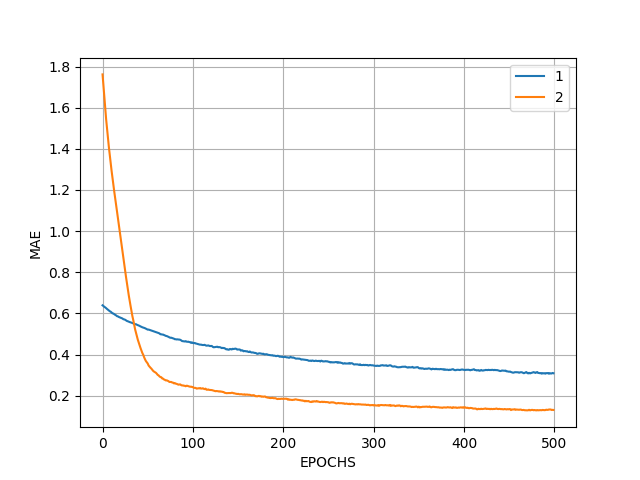
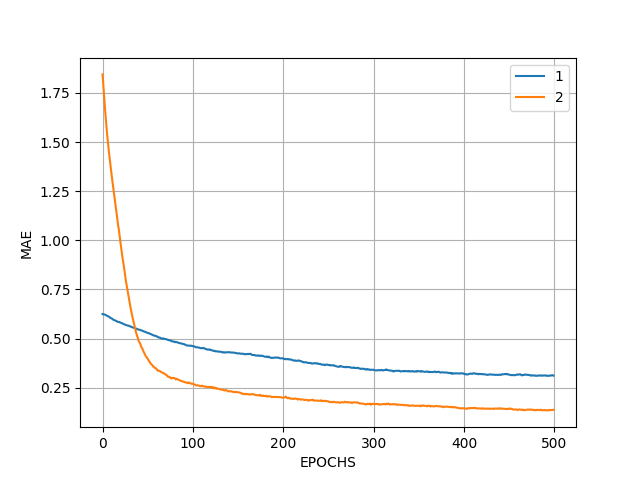
cluster/regression models tested.

diff --git a/dnn_analysis.py b/dnn_analysis.py
@@ -23,107 +23,13 @@ def getDataset(filePath, **kwargs):
 (train, train_labels), (test, test_labels) = tf.keras.datasets.boston_housing.load_data()
 train_std, mean_train, std_train = scalar(train)
 train_labels_std, mean_labels, std_labels = scalar(train_labels)
-#test, test_labels = scalar(test), scalar(test_labels)
-
-#KMEANS
-range_n_clusters = [2, 3, 4, 5, 6]
-silhouette_avg_ls = []
-for n_clusters in range_n_clusters:
-    # Create a subplot with 1 row and 2 columns
-    #fig, (ax1, ax2) = plt.subplots(1, 2)
-    #fig.set_size_inches(18, 7)
-
-    # The 1st subplot is the silhouette plot
-    # The silhouette coefficient can range from -1, 1 but in this example all
-    # lie within [-0.1, 1]
-    #ax1.set_xlim([-0.1, 1])
-    # The (n_clusters+1)*10 is for inserting blank space between silhouette
-    # plots of individual clusters, to demarcate them clearly.
-    #ax1.set_ylim([0, len(train_std) + (n_clusters + 1) * 10])
-
-    # Initialize the clusterer with n_clusters value and a random generator
-    # seed of 10 for reproducibility.
-    clusterer = KMeans(n_clusters=n_clusters, random_state=10)
-    cluster_labels = clusterer.fit_predict(train_std)
-
-    # The silhouette_score gives the average value for all the samples.
-    # This gives a perspective into the density and separation of the formed
-    # clusters
-    silhouette_avg = silhouette_score(train_std, cluster_labels)
-    silhouette_avg_ls.append(silhouette_avg)
-    print("For n_clusters =", n_clusters,
-          "The average silhouette_score is :", silhouette_avg)
-
-    # Compute the silhouette scores for each sample
-    sample_silhouette_values = silhouette_samples(train_std, cluster_labels)
-
-    y_lower = 10
-
-    """
-    for i in range(n_clusters):
-        # Aggregate the silhouette scores for samples belonging to
-        # cluster i, and sort them
-        ith_cluster_silhouette_values = \
-            sample_silhouette_values[cluster_labels == i]
-
-        ith_cluster_silhouette_values.sort()
-
-        size_cluster_i = ith_cluster_silhouette_values.shape[0]
-        y_upper = y_lower + size_cluster_i
-
-        color = cm.nipy_spectral(float(i) / n_clusters)
-        ax1.fill_betweenx(np.arange(y_lower, y_upper),
-                          0, ith_cluster_silhouette_values,
-                          facecolor=color, edgecolor=color, alpha=0.7)
-
-        # Label the silhouette plots with their cluster numbers at the middle
-        ax1.text(-0.05, y_lower + 0.5 * size_cluster_i, str(i))
-
-        # Compute the new y_lower for next plot
-        y_lower = y_upper + 10  # 10 for the 0 samples
-
-    ax1.set_title("The silhouette plot for the various clusters.")
-    ax1.set_xlabel("The silhouette coefficient values")
-    ax1.set_ylabel("Cluster label")
-
-    # The vertical line for average silhouette score of all the values
-    ax1.axvline(x=silhouette_avg, color="red", linestyle="--")
-
-    ax1.set_yticks([])  # Clear the yaxis labels / ticks
-    ax1.set_xticks([-0.1, 0, 0.2, 0.4, 0.6, 0.8, 1])
-
-    # 2nd Plot showing the actual clusters formed
-    colors = cm.nipy_spectral(cluster_labels.astype(float) / n_clusters)
-    ax2.scatter(train_std[:, 0], train_std[:, 1], marker='.', s=30, lw=0, alpha=0.7,
-                c=colors, edgecolor='k')
-
-    # Labeling the clusters
-    centers = clusterer.cluster_centers_
-    # Draw white circles at cluster centers
-    ax2.scatter(centers[:, 0], centers[:, 1], marker='o',
-                c="white", alpha=1, s=200, edgecolor='k')
-
-    for i, c in enumerate(centers):
-        ax2.scatter(c[0], c[1], marker='$%d$' % i, alpha=1,
-                    s=50, edgecolor='k')
-
-    ax2.set_title("The visualization of the clustered data.")
-    ax2.set_xlabel("Feature space for the 1st feature")
-    ax2.set_ylabel("Feature space for the 2nd feature")
-
-    plt.suptitle(("Silhouette analysis for KMeans clustering on sample data "
-                  "with n_clusters = %d" % n_clusters),
-                 fontsize=14, fontweight='bold')
-
-#plt.savefig('plots/silhouette.png')
-#plt.close(fig)
-"""
+test_std, mean_test, std_test = scalar(test)
+test_labels_std, mean_labels_test, std_labels_test = scalar(test_labels)
 
 
-bestK = silhouette_avg_ls.index(np.max(silhouette_avg_ls))
 
-clustering = KMeans(n_clusters=bestK+2, random_state=10)
-clusters_labels = clustering.fit_predict(train_std)
+
+
 
 
 #Fully connected Neural Network
@@ -132,7 +38,7 @@ num_epochs = 500
 all_mae_history_1 = []
 all_mae_history_2 = []
 model_1 = dnnModel.getModel(units=64, inputShape=train.shape[1])
-model_2 = dnnModel.getModel(units=64, inputShape=train.shape[1])
+model_2 = dnnModel.getModel(units=124, inputShape=train.shape[1])
 history_1 = model_1.fit(train_std, train_labels_std,
                         epochs=num_epochs,
                         batch_size=24,
@@ -175,12 +81,17 @@ y_1 = unscalar(model_1.predict(train_std), mean_labels, std_labels)
 y_2 = unscalar(model_2.predict(train_std), np.mean(clusters_labels), np.std(clusters_labels))
 y_2_e = unscalar(model_2.predict(train_std), mean_labels, std_labels)
 
+y_1_t = unscalar(model_1.predict(test_std), mean_labels_test, std_labels_test)
+y_2_t = unscalar(model_2.predict(test_std), np.mean(clusters_labels), np.std(clusters_labels))
+
 y_1_smooth = smooth_curve(y_1)
 y_2_smooth = smooth_curve(y_2)
 y_2_e_smooth = smooth_curve(y_2_e)
 plt.plot(y_1_smooth, label='1')
 plt.plot(y_2_smooth, label='2')
 plt.plot(y_2_e_smooth, label='3')
+plt.plot(y_1_t, label='1t')
+plt.plot(y_2_t, label='2t')
 plt.grid()
 plt.legend()
 plt.savefig('plots/modelsError.png')

diff --git a/clustering_analysis.py b/clustering_analysis.py
@@ -1,0 +1,147 @@
+from sklearn.cluster import KMeans, DBSCAN
+from sklearn.mixture import GaussianMixture
+from sklearn.metrics import silhouette_samples, silhouette_score
+from sklearn.preprocessing import StandardScaler
+from sklearn.datasets import load_boston
+
+import matplotlib.pyplot as plt
+import matplotlib.cm as cm
+
+import numpy as np
+import pandas as pd
+
+
+# ==== Preprocessing ====
+X = pd.read_csv('txsData/txs_small.csv', header=0, usecols=['n_in', 'n_out', 'amount_in', 'amount_out',
+                                                             'change', 'SA', 'diffN'])
+
+X = X.to_numpy()
+X = StandardScaler().fit_transform(X)
+# ===== K-MEANS =====
+# ==== Silhouette analysis ====
+range_n_clusters = [2, 3, 4, 5, 6]
+silhouette_avg_ls = []
+for n_clusters in range_n_clusters:
+    # Create a subplot with 1 row and 2 columns
+    fig, (ax1, ax2) = plt.subplots(1, 2)
+    fig.set_size_inches(18, 7)
+
+    # The 1st subplot is the silhouette plot
+    # The silhouette coefficient can range from -1, 1, but in this example it is in a smaller range
+    ax1.set_xlim([-0.1, 1])
+    # The (n_clusters+1)*10 is for inserting blank space between silhouette
+    # plots of individual clusters, to demarcate them clearly.
+    ax1.set_ylim([0, len(X) + (n_clusters + 1) * 10])
+
+    # Initialize the clusterer with n_clusters value and a random generator
+    # seed of 10 for reproducibility.
+    clusterer = KMeans(n_clusters=n_clusters, random_state=10)
+    cluster_labels = clusterer.fit_predict(X)
+
+    # The silhouette_score gives the average value for all the samples.
+    # This gives a perspective into the density and separation of the formed
+    # clusters
+    silhouette_avg = silhouette_score(X, cluster_labels)
+    silhouette_avg_ls.append(silhouette_avg)
+    print("For n_clusters =", n_clusters,
+          "The average silhouette_score is :", silhouette_avg)
+
+    # Compute the silhouette scores for each sample
+    sample_silhouette_values = silhouette_samples(X, cluster_labels)
+
+    y_lower = 10
+
+
+    for i in range(n_clusters):
+        # Aggregate the silhouette scores for samples belonging to
+        # cluster i, and sort them
+        ith_cluster_silhouette_values = \
+            sample_silhouette_values[cluster_labels == i]
+
+        ith_cluster_silhouette_values.sort()
+
+        size_cluster_i = ith_cluster_silhouette_values.shape[0]
+        y_upper = y_lower + size_cluster_i
+
+        color = cm.nipy_spectral(float(i) / n_clusters)
+        ax1.fill_betweenx(np.arange(y_lower, y_upper),
+                          0, ith_cluster_silhouette_values,
+                          facecolor=color, edgecolor=color, alpha=0.7)
+
+        # Label the silhouette plots with their cluster numbers at the middle
+        ax1.text(-0.1, y_lower + 0.5 * size_cluster_i, str(i))
+
+        # Compute the new y_lower for next plot
+        y_lower = y_upper + 10  # 10 for the 0 samples
+
+    ax1.set_title("The silhouette plot for the various clusters.")
+    ax1.set_xlabel("The silhouette coefficient values")
+    ax1.set_ylabel("Cluster label")
+
+    # The vertical line for average silhouette score of all the values
+    ax1.axvline(x=silhouette_avg, color="red", linestyle="--")
+
+    ax1.set_yticks([])  # Clear the yaxis labels / ticks
+    ax1.set_xticks([-0.2, 0, 0.2, 0.4, 0.6, 0.8, 1])
+
+    # 2nd Plot showing the actual clusters formed
+    colors = cm.nipy_spectral(cluster_labels.astype(float) / n_clusters)
+    ax2.scatter(X[:, 2], X[:, 3], marker='.', s=30, lw=0, alpha=0.7,  #a_in and a_out
+                c=colors, edgecolor='k')
+
+    # Labeling the clusters
+    centers = clusterer.cluster_centers_
+    # Draw white circles at cluster centers
+    ax2.scatter(centers[:, 0], centers[:, 1], marker='o',
+                c="white", alpha=1, s=200, edgecolor='k')
+
+    for i, c in enumerate(centers):
+        ax2.scatter(c[0], c[1], marker='$%d$' % i, alpha=1,
+                    s=50, edgecolor='k')
+
+    ax2.set_title("The visualization of the clustered data.")
+    ax2.set_xlabel("Feature space for the 1st feature")
+    ax2.set_ylabel("Feature space for the 2nd feature")
+
+    plt.suptitle(("Silhouette analysis for KMeans clustering on sample data "
+                  "with n_clusters = %d" % n_clusters),
+                 fontsize=14, fontweight='bold')
+
+plt.show()
+plt.close(fig)
+
+bestK = silhouette_avg_ls.index(np.max(silhouette_avg_ls))+2
+clustering = KMeans(n_clusters=bestK, random_state=10)
+clusters_labels = clustering.fit_predict(X)
+
+cls_1 = clustering.cluster_centers_[0]
+cls_2 = clustering.cluster_centers_[1]
+
+def getUtility(X, cls1, cls2, clsLabels):
+    """Compute the distance (L^2 norm) between a node and the assigned cluster, then it assigns an utility in according
+    to such distance. """
+
+    i = 0
+    utility = []
+    for l in clsLabels:
+        if l == 0:
+            dist = np.linalg.norm(X[i, :] - cls1)
+            utility.append(1 - np.exp(-dist))
+            i += 1
+        else:
+            dist = np.linalg.norm(X[i, :] - cls2)
+            utility.append(1 + np.exp(-dist))
+            i += 1
+    return utility
+
+utility = getUtility(X, cls_1, cls_2, clusters_labels)
+
+
+
+
+
+
+
+
+
+
